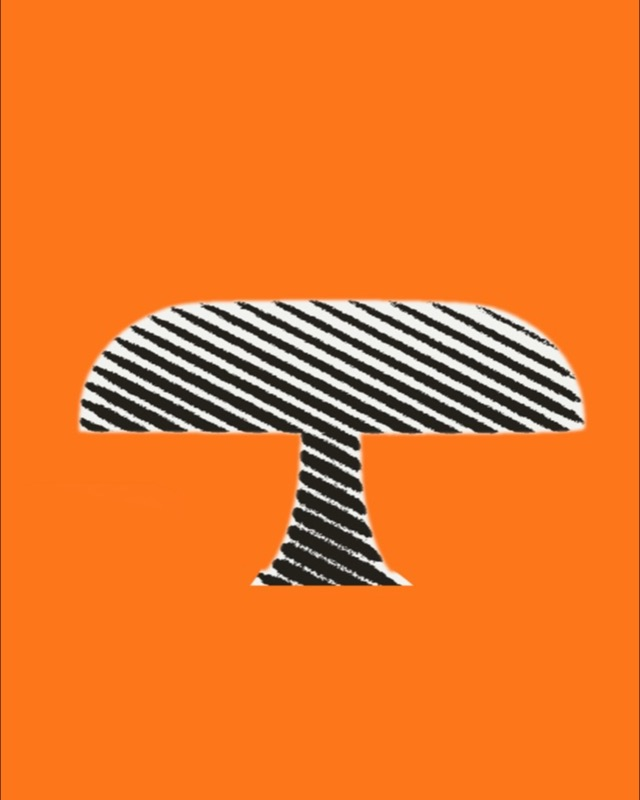
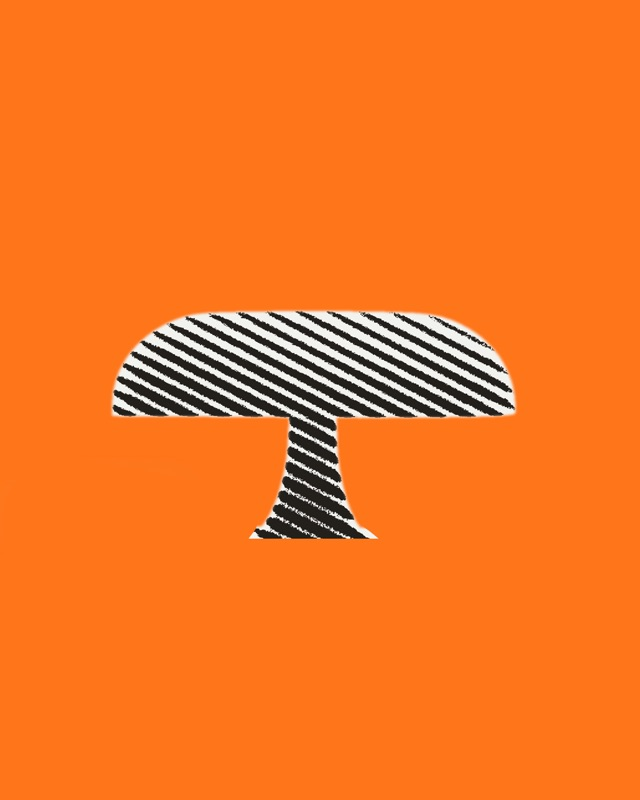
Update strip: plywood child's chair on green, cleaner Nesso lamp

Changed region(s): [[0.0938, 0.375, 0.9375, 0.75]]

diff --git a/index.html b/index.html
@@ -213,7 +213,7 @@ section.light .wrap { padding-top: 64px; padding-bottom: 64px; }
 <main>
   <section class="mission" id="mission" aria-labelledby="mission-title">
     <ul class="strip">
-      <li><img src="images/panton-green.jpg" width="640" height="800" alt="Panton Chair in halftone on green"></li>
+      <li><img src="images/plywood-chair-green.jpg" width="640" height="800" alt="Molded plywood child's chair in halftone on green"></li>
       <li><img src="images/judd-blue.jpg" width="640" height="800" alt="Donald Judd plywood chair in halftone on blue"></li>
       <li><img src="images/nesso-orange.jpg" width="640" height="800" alt="Nesso table lamp in halftone on orange"></li>
       <li><img src="images/hang-it-all-red.jpg" width="640" height="800" alt="Eames Hang-It-All in halftone on red"></li>
